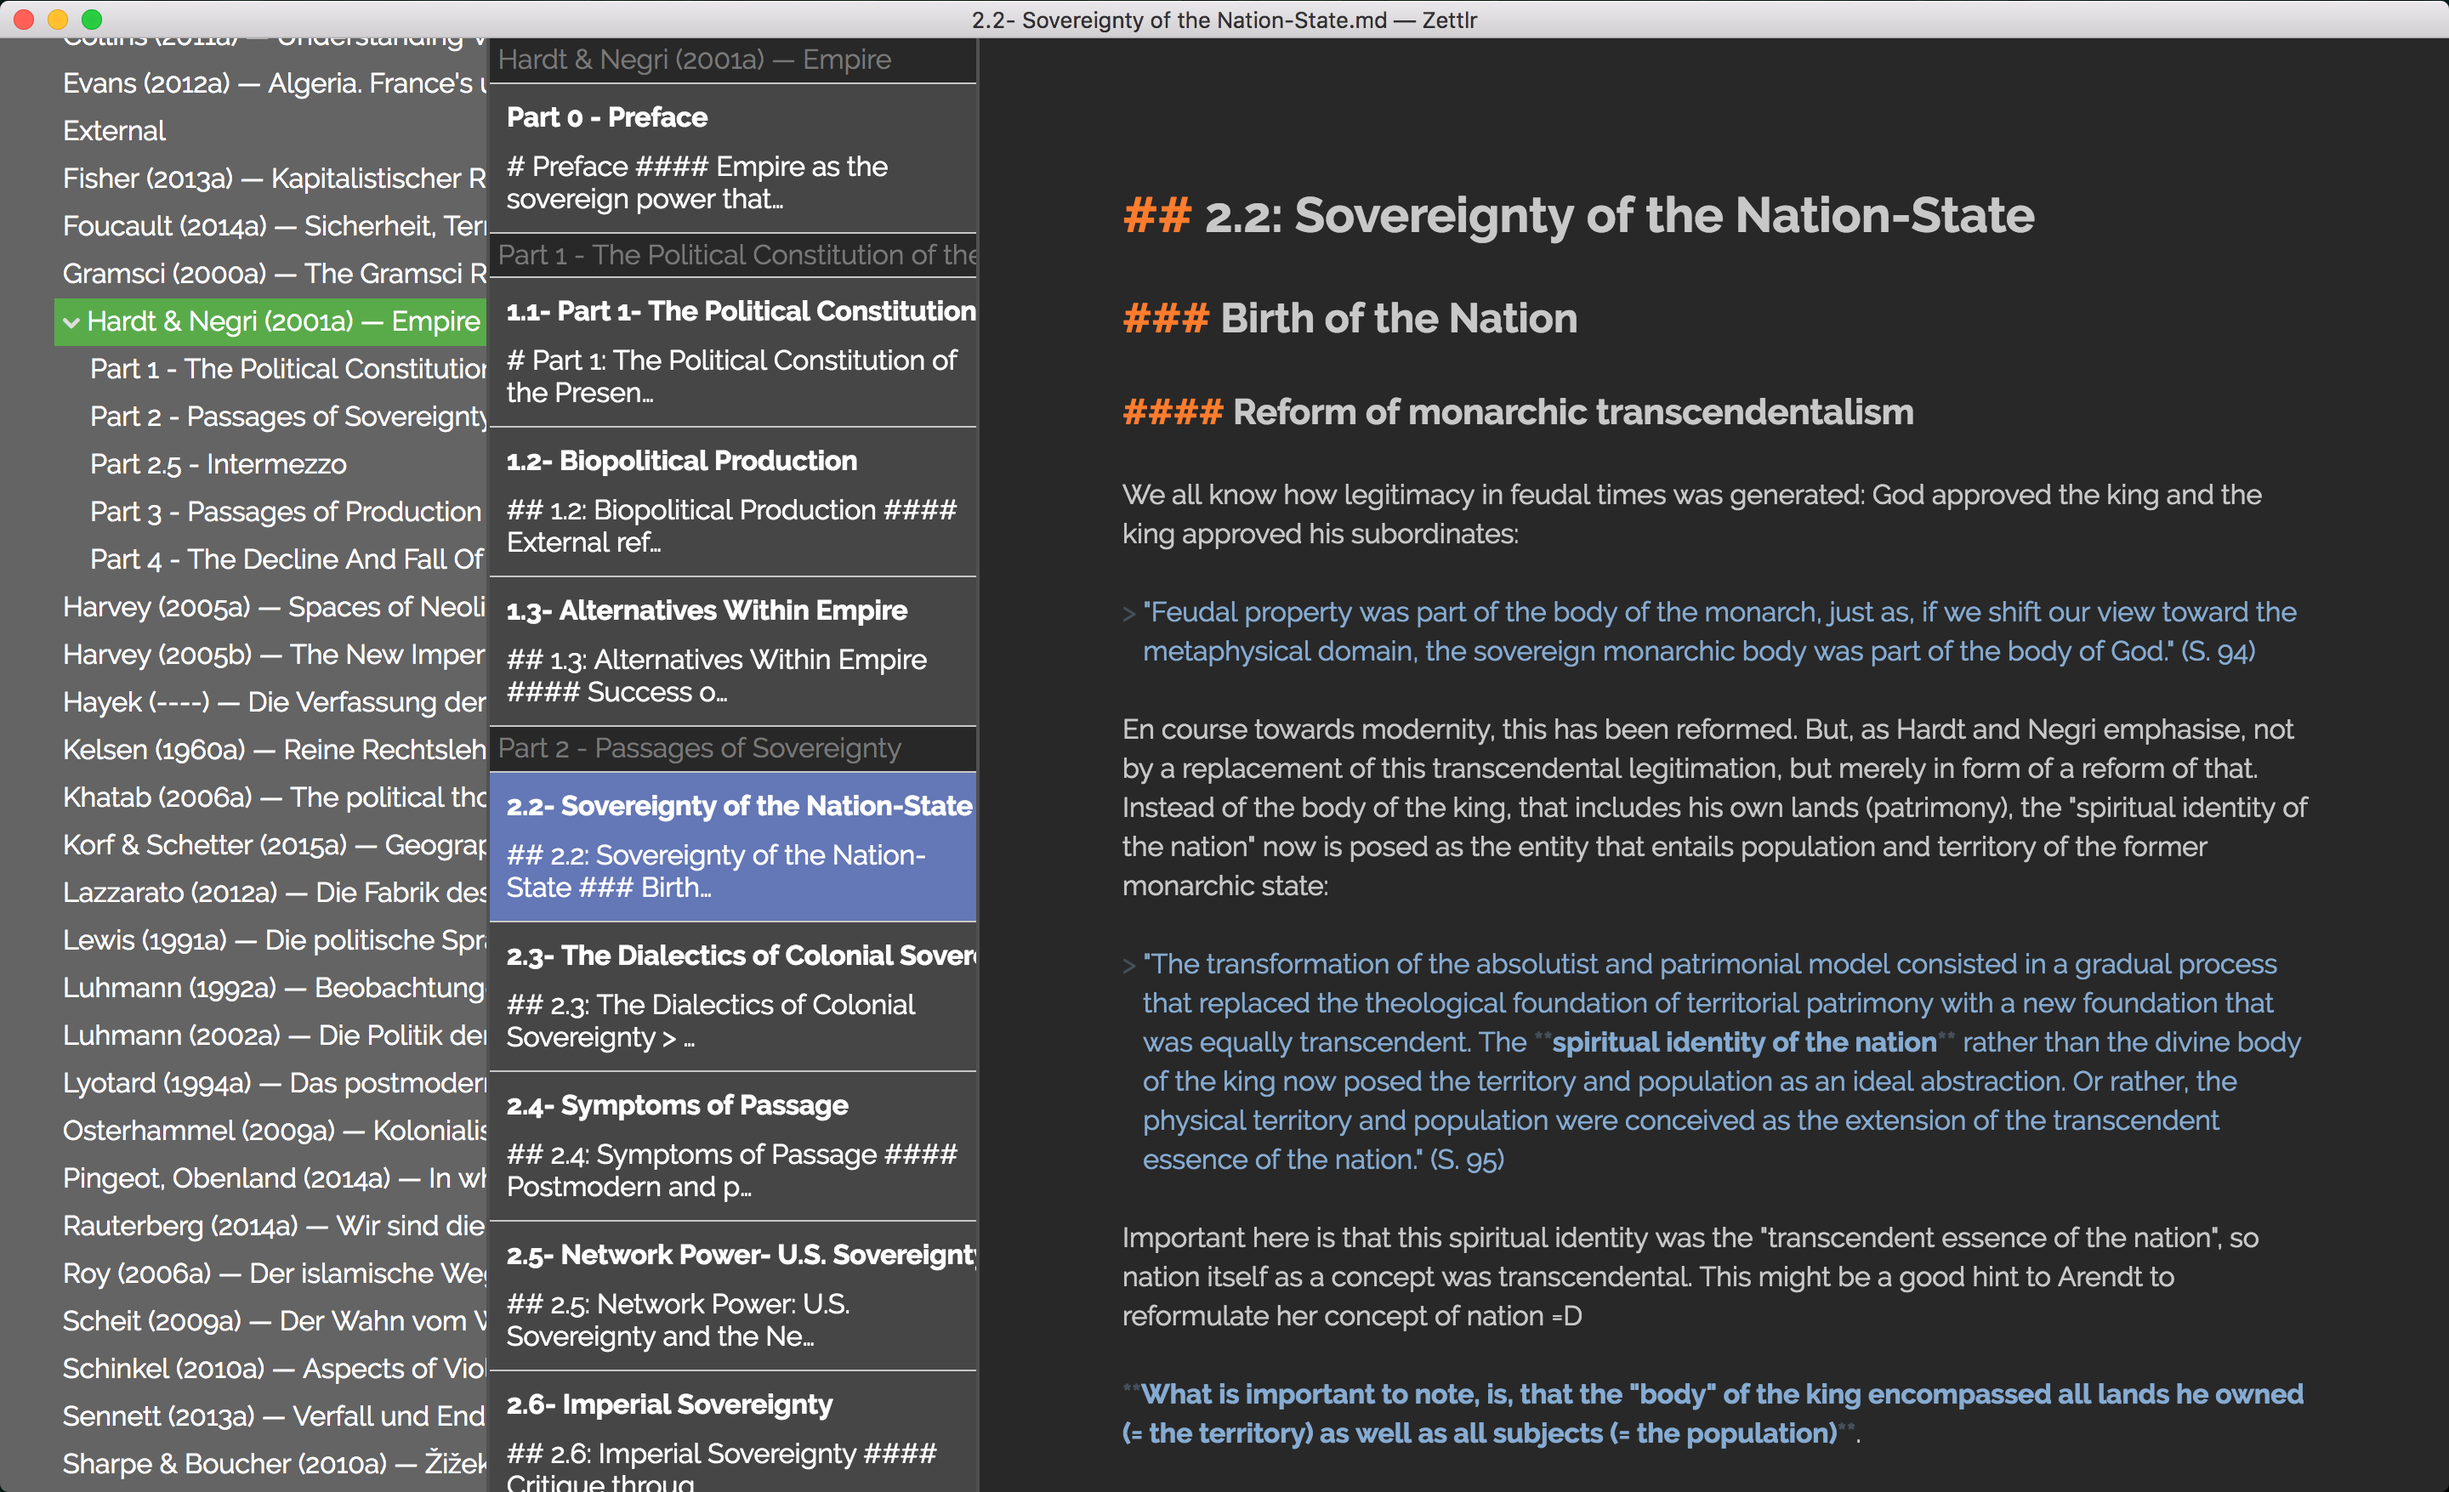
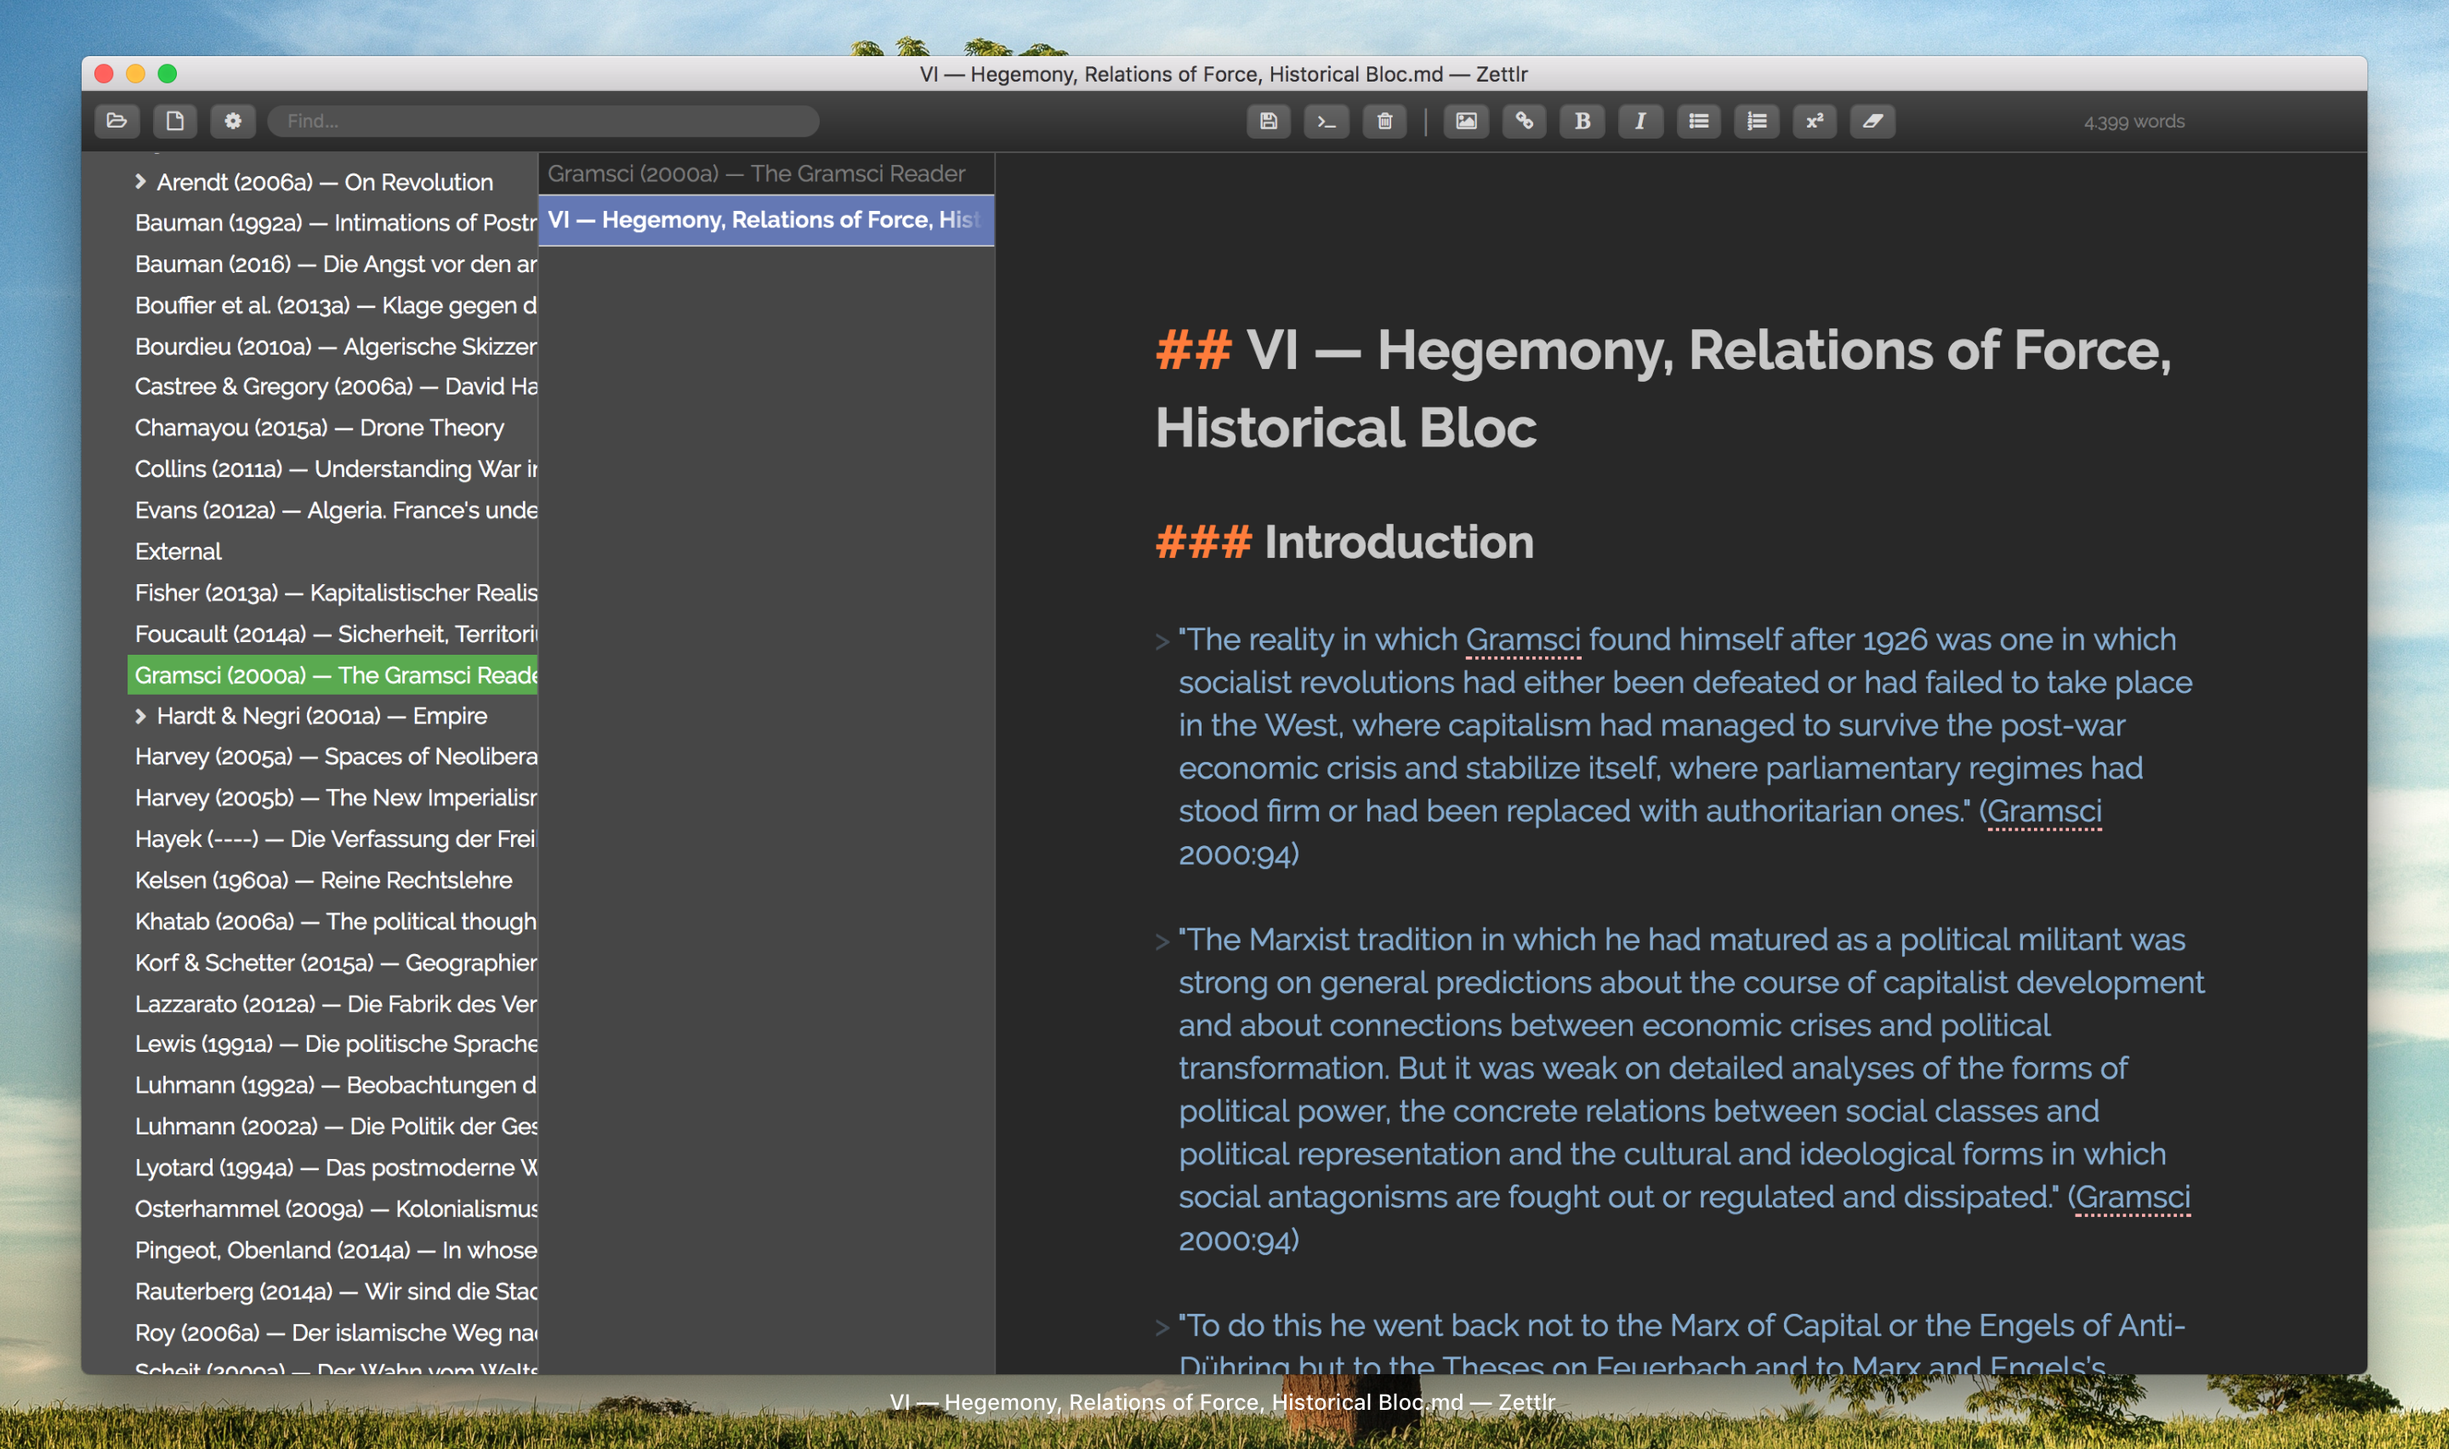
Updated Readme and screenshots

diff --git a/README.md b/README.md
@@ -2,6 +2,8 @@
 
 A powerful markdown editor with fulltext search, exporting capabilities and an integrated tree view.
 
+[Visit the Website.](https://zettlr.com/)
+
 ![The central window of Zettlr](/resources/screenshots/zettlr_view.png)
 
 ## Features
@@ -23,4 +25,10 @@ To install Zettlr, just [download the latest release](https://github.com/Zettlr/
 
 ## What next?
 
-If you have downloaded Zettlr, [head over to our Wiki](https://github.com/Zettlr/Zettlr/wiki) to get to know Zettlr. Refer to the [Quick Start Guide](https://github.com/Zettlr/Zettlr/wiki/Quick-Start), if you prefer to use software heads-on.
+If you have downloaded Zettlr, [head over to our website](https://zettlr.com/docs) to get to know Zettlr. Refer to the [Quick Start Guide](https://zettlr.com/docs/quick-start), if you prefer to use software heads-on.
+
+## License
+
+This software is licenced via the MIT-License.
+
+The brand (including name, icons and everything Zettlr can be identified with) is exluded and all rights reserved. If you want to fork Zettlr to develop another app, feel free but please change name and icons.
